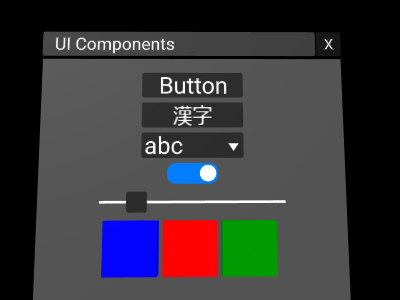
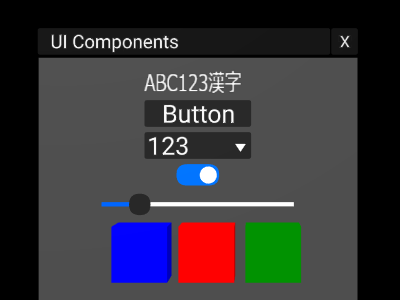
update examples.

diff --git a/examples/window.html b/examples/window.html
@@ -27,17 +27,16 @@
             <a-entity laser-controls="hand: left" raycaster="far:Infinity;objects:.collidable"></a-entity>
         </a-entity>
 
-        <a-xywindow position="0 0 -12" width="6" height="6" title="UI Components">
-            <a-plane xyitem="fixed:true" width="6" height="6" position="0 0 -0.05" color="#444"></a-plane>
+        <a-xywindow position="0 0 -12" width="6" height="5" title="UI Components">
+            <a-plane xyitem="fixed:true" width="6" height="5" position="0 0 -0.05" color="#444"></a-plane>
 
             <a-xycontainer direction="column" spacing="0.1" padding="0.2">
-                <a-xylabel value="ABC123" width="2" height="0.4"></a-xylabel>
+                <a-xylabel value="ABC123漢字" width="2" height="0.5"></a-xylabel>
                 <a-xybutton label="Button"></a-xybutton>
-                <a-xybutton label="漢字"></a-xybutton>
-                <a-xyselect values="abc,123,Foo,Bar" default="1"></a-xyselect>
-                <a-xytoggle width="1" value="true"></a-xytoggle>
+                <a-xyselect values="abc,123,Foo,Bar" select="1"></a-xyselect>
+                <a-xytoggle value="true"></a-xytoggle>
                 <a-xyrange width="4" height="0.5" value="20"></a-xyrange>
-                <a-xycontainer direction="row" spacing="0.1" justify-items="center">
+                <a-xycontainer direction="row" spacing="0.2">
                     <a-box color="blue" class="collidable" mixin="box_animation"></a-box>
                     <a-box color="red" class="collidable" mixin="box_animation"></a-box>
                     <a-box color="green" class="collidable" mixin="box_animation"></a-box>
@@ -49,8 +48,7 @@
 
         <a-xywindow position="11 0 -12" width="10" height="5" title="Scroll" rotation="0 -10 0">
             <a-xyscroll width="10" height="5">
-                <a-xycontainer width="10" height="10" direction="vertical" justify-items="space-between"
-                    align-items="center">
+                <a-xycontainer direction="column" width="10" align-items="center">
                     <a-box color="blue" class="collidable" mixin="box_animation"></a-box>
                     <a-box color="red" class="collidable" mixin="box_animation"></a-box>
                     <a-box color="magenta" class="collidable" mixin="box_animation"></a-box>
@@ -64,34 +62,30 @@
 
         <a-xywindow position="-9 0 -12" width="6" height="5" title="Boxes" xywindow="closable:false"
             xy-drag-rotation="draggable:a-box">
-            <a-xycontainer width="6" height="5" spacing="0.2">
+            <a-xycontainer width="6" height="5" direction="row" justify-items="space-between" wrap="wrap">
+                <a-box color="blue" class="collidable" mixin="box_animation"></a-box>
+                <a-box color="red" class="collidable" mixin="box_animation"></a-box>
+                <a-box color="green" class="collidable" mixin="box_animation"></a-box>
+                <a-box color="cyan" class="collidable" mixin="box_animation"></a-box>
+                <a-box color="yellow" class="collidable" mixin="box_animation"></a-box>
 
-                <a-xycontainer width="6" height="5" direction="horizontal" justify-items="space-between" wrap="wrap">
-                    <a-box color="blue" class="collidable" mixin="box_animation"></a-box>
-                    <a-box color="red" class="collidable" mixin="box_animation"></a-box>
-                    <a-box color="green" class="collidable" mixin="box_animation"></a-box>
-                    <a-box color="cyan" class="collidable" mixin="box_animation"></a-box>
-                    <a-box color="yellow" class="collidable" mixin="box_animation"></a-box>
+                <a-box color="red" class="collidable" mixin="box_animation"></a-box>
+                <a-box color="cyan" class="collidable" mixin="box_animation"></a-box>
+                <a-box color="blue" class="collidable" mixin="box_animation"></a-box>
+                <a-box color="yellow" class="collidable" mixin="box_animation"></a-box>
+                <a-box color="green" class="collidable" mixin="box_animation"></a-box>
 
-                    <a-box color="red" class="collidable" mixin="box_animation"></a-box>
-                    <a-box color="cyan" class="collidable" mixin="box_animation"></a-box>
-                    <a-box color="blue" class="collidable" mixin="box_animation"></a-box>
-                    <a-box color="yellow" class="collidable" mixin="box_animation"></a-box>
-                    <a-box color="green" class="collidable" mixin="box_animation"></a-box>
+                <a-box color="cyan" class="collidable" mixin="box_animation"></a-box>
+                <a-box color="yellow" class="collidable" mixin="box_animation"></a-box>
+                <a-box color="blue" class="collidable" mixin="box_animation"></a-box>
+                <a-box color="red" class="collidable" mixin="box_animation"></a-box>
+                <a-box color="blue" class="collidable" mixin="box_animation"></a-box>
 
-                    <a-box color="cyan" class="collidable" mixin="box_animation"></a-box>
-                    <a-box color="yellow" class="collidable" mixin="box_animation"></a-box>
-                    <a-box color="blue" class="collidable" mixin="box_animation"></a-box>
-                    <a-box color="red" class="collidable" mixin="box_animation"></a-box>
-                    <a-box color="blue" class="collidable" mixin="box_animation"></a-box>
-
-                    <a-box color="yellow" class="collidable" mixin="box_animation"></a-box>
-                    <a-box color="green" class="collidable" mixin="box_animation"></a-box>
-                    <a-box color="red" class="collidable" mixin="box_animation"></a-box>
-                    <a-box color="cyan" class="collidable" mixin="box_animation"></a-box>
-                    <a-box color="blue" class="collidable" mixin="box_animation"></a-box>
-                </a-xycontainer>
-
+                <a-box color="yellow" class="collidable" mixin="box_animation"></a-box>
+                <a-box color="green" class="collidable" mixin="box_animation"></a-box>
+                <a-box color="red" class="collidable" mixin="box_animation"></a-box>
+                <a-box color="cyan" class="collidable" mixin="box_animation"></a-box>
+                <a-box color="blue" class="collidable" mixin="box_animation"></a-box>
             </a-xycontainer>
         </a-xywindow>
 

diff --git a/README.md b/README.md
@@ -18,15 +18,20 @@ Flexbox like layout + UI components for [A-Frame](https://aframe.io/).
 Use [xylayout-all.min.js](./dist/xylayout-all.min.js) (30kB)
 
 ```html
-  <script src="https://binzume.github.io/aframe-xylayout/dist/xylayout-all.min.js"></script>
-  ...
-  <a-xycontainer width="5" height="5" direction="horizontal" spacing="0.1" align-items="stretch">
-      <a-plane xyitem="fixed:true" height="5" width="5" color="#888"></a-plane>
-      <a-box color="blue"></a-box>
-      <a-box color="red"></a-box>
-      <a-box color="green"></a-box>
-      <a-box color="yellow"></a-box>
-  </a-xycontainer>
+<script src="https://binzume.github.io/aframe-xylayout/dist/xylayout-all.min.js"></script>
+...
+<a-xycontainer direction="column" spacing="0.1" padding="0.2">
+    <a-xylabel value="ABC123漢字" width="2" height="0.5"></a-xylabel>
+    <a-xybutton label="Button"></a-xybutton>
+    <a-xyselect values="abc,123,Foo,Bar" select="1"></a-xyselect>
+    <a-xytoggle value="true"></a-xytoggle>
+    <a-xyrange width="4" height="0.5" value="20"></a-xyrange>
+    <a-xycontainer direction="row" spacing="0.2">
+        <a-box color="blue"></a-box>
+        <a-box color="red"></a-box>
+        <a-box color="green"></a-box>
+    </a-xycontainer>
+</a-xycontainer>
 ```
 
 Building xylayout-all.min.js
